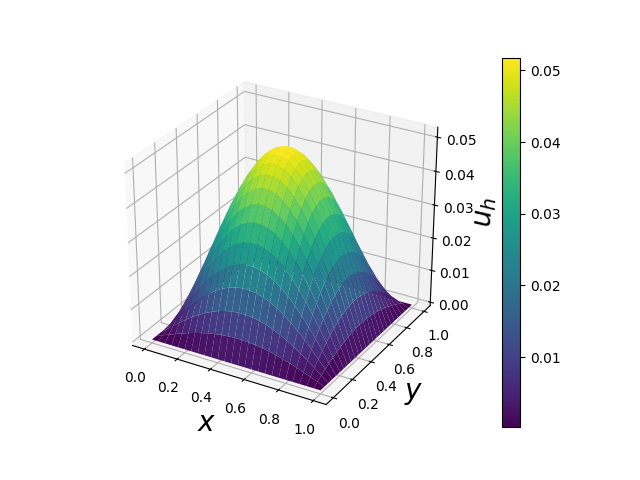
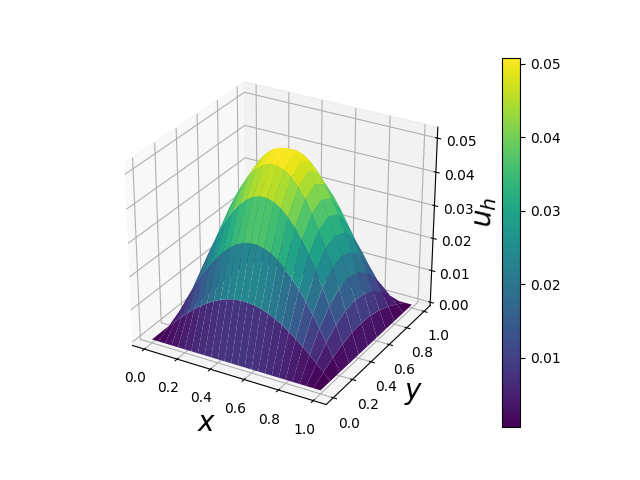
Tidying up
Added 2D cotourf plot with matplitlib.

Made plot_custom slightly cleverer by having a memory on last element index.

Moved assemble(u*dx) to tests, as it is not required in the main file

diff --git a/plotting.py b/plotting.py
@@ -1,16 +1,17 @@
 import matplotlib.pyplot as plt
+import numpy as np
+from mpl_toolkits.mplot3d import axes3d
 
 
 def plot_at_vertex(u_h, V):
     """ Plot the solution projected in 3D at the dof location """
-    from mpl_toolkits.mplot3d import axes3d
     fig = plt.figure()
     axes = fig.add_subplot(1, 1, 1, projection="3d")
     u_plot = u_h.reshape(V.mesh.grid[0].shape)
     mycmap = plt.get_cmap('viridis')
     surface = axes.plot_surface(V.mesh.grid[0],
-                                V.mesh.grid[1], u_plot,cmap=mycmap)
-    fig.colorbar(surface,ax=axes)
+                                V.mesh.grid[1], u_plot, cmap=mycmap)
+    fig.colorbar(surface, ax=axes)
     axes.set_xlabel('$x$', fontsize=20)
     axes.set_ylabel('$y$', fontsize=20)
     axes.set_zlabel('$u_h$', fontsize=20)
@@ -21,17 +22,16 @@ def plot_custom(u_h, V, Nx):
     """
     Plot solution on a custom grid with Nx^2 elements
     """
-    import numpy as np
     from mesh import UnitSquareMesh
     plot_mesh = UnitSquareMesh(Nx, Nx)
-    func  = np.zeros(len(plot_mesh.vertices))
+    func = np.zeros(len(plot_mesh.vertices))
     # Loop over all nodes in custom mesh
     counter = 0
+    index = 0
     for y_ in np.linspace(0, 1, Nx+1):
         for x_ in np.linspace(0, 1, Nx+1):
             # Find which element the point belongs to
-            index = element(x_, y_, V)
-            local_cells = V.mesh.cells[index]
+            index = element(x_, y_, V, last_element=index)
             # Find min/max values of element coordinates
             a, b = V.mesh.vertices[V.mesh.cells[index][0]]
             c, d = V.mesh.vertices[V.mesh.cells[index][2]]
@@ -45,24 +45,62 @@ def plot_custom(u_h, V, Nx):
     Z = func.reshape(plot_mesh.grid[0].shape)
 
     fig = plt.figure()
-    axes = fig.add_subplot(1,1,1, projection="3d")
+    axes = fig.add_subplot(1, 1, 1, projection="3d")
     mycmap = plt.get_cmap('viridis')
     surface = axes.plot_surface(plot_mesh.grid[0],
                                 plot_mesh.grid[1], Z, cmap=mycmap)
-    fig.colorbar(surface,ax=axes)
+    fig.colorbar(surface, ax=axes)
     axes.set_xlabel('$x$', fontsize=20)
     axes.set_ylabel('$y$', fontsize=20)
     axes.set_zlabel('$u_h$', fontsize=20)
-    plt.savefig("u_plot.png")
+    plt.savefig("u_h_custom.png")
 
 
-def element(x_, y_, V):
+def element(x_, y_, V, last_element=0):
     """
-    Find which element contains x_, y_
+    Find which element contains x_, y_.
+    Optional argument is the index of last element for potential speedup
     """
     vert = V.mesh.vertices
-    for i in range(len(V.mesh.cells)):
+    # Saves alot of time if visualization grid is finer than mesh
+    for i in range(last_element, len(V.mesh.cells)):
         cell = V.mesh.cells[i]
-        if  (vert[cell[0]][0] <= x_ and x_ <= vert[cell[1]][0] and
-             vert[cell[0]][1] <= y_ and y_ <= vert[cell[-1]][1]):
+        x_cond = vert[cell[0]][0] <= x_ and x_ <= vert[cell[1]][0]
+        y_cond = vert[cell[0]][1] <= y_ and y_ <= vert[cell[-1]][1]
+        if x_cond and y_cond:
             return i
+
+    # If value not found in higher index, start from 0
+    for i in range(0, last_element):
+        cell = V.mesh.cells[i]
+        x_cond = vert[cell[0]][0] <= x_ and x_ <= vert[cell[1]][0]
+        y_cond = vert[cell[0]][1] <= y_ and y_ <= vert[cell[-1]][1]
+        if x_cond and y_cond:
+            return i
+
+
+def plot_contour(u_h, V, mesh=False):
+    """
+    2D contour plot of solution u_h.
+    Optionally overlay the mesh
+    """
+
+    u_plot = u_h.reshape(V.mesh.grid[0].shape)
+    plt.figure()
+    plt.contourf(V.mesh.grid[0], V.mesh.grid[1], u_plot)
+    if mesh:
+        vertices = V.mesh.vertices
+        cells = V.mesh.cells
+        for i in range(len(cells)):
+            plt.plot(np.append(vertices[cells[i], 0],
+                               np.array(vertices[cells[i], 0][0])),
+                     np.append(vertices[cells[i], 1],
+                               np.array(vertices[cells[i], 1][0])),
+                     "k-", alpha=0.2, linewidth=0.5)
+
+    cbar = plt.colorbar()
+    cbar.set_label("$u_h$", fontsize=20)
+    plt.axis("equal")
+    plt.xlabel("x")
+    plt.ylabel("y")
+    plt.savefig("u_h_contour.png")

diff --git a/problem.py b/problem.py
@@ -1,16 +1,14 @@
-def main(nx, ny, f):
+def main(nx, ny, f, quad_degree=4):
     from mesh import UnitSquareMesh
     from functionspace import FunctionSpace
-    from assembly import (assemble_stiffness_matrix, assemble_rhs,
-                          assemble_volume_function)
-    import sympy as sp
-    import numpy as np
+    from assembly import (assemble_stiffness_matrix, assemble_rhs)
+
     mesh = UnitSquareMesh(nx, ny)
     V = FunctionSpace(mesh)
 
-    A = assemble_stiffness_matrix(V)
+    A = assemble_stiffness_matrix(V, quad_degree=quad_degree)
 
-    L = assemble_rhs(V, f)
+    L = assemble_rhs(V, f, quad_degree=quad_degree)
 
     def bc_apply(A, b):
         # Apply a zero-dirichlet condition
@@ -22,10 +20,10 @@ def main(nx, ny, f):
         return A
 
     bc_apply(A, L)
+    from numpy.linalg import solve
+    u_h = solve(A, L)
 
-    u_h = np.linalg.solve(A, L)
-
-    return (u_h,V), float(assemble_volume_function(u_h, V))
+    return u_h, V
 
 
 if __name__ == "__main__":
@@ -33,11 +31,12 @@ if __name__ == "__main__":
     # f = "8*pi**2*sin(2*pi*x)*sin(2*pi*y)"
 
     def f_internal(x, y):
-        from sympy import pi, sin,cos
+        from sympy import pi, sin, cos
         return eval(f)
-    
-    # (u_h, V), intu = main(100,50, f_internal)
-    (u_h, V), intu = main(5,8, f_internal)
-    from plotting import plot_at_vertex, plot_custom
+
+    u_h, V = main(25, 10, f_internal, quad_degree=2)
+
+    from plotting import plot_at_vertex, plot_custom, plot_contour
     plot_at_vertex(u_h, V)
-    plot_custom(u_h, V,15)
+    plot_custom(u_h, V, 40)
+    plot_contour(u_h, V, mesh=True)

diff --git a/test_solution.py b/test_solution.py
@@ -1,5 +1,7 @@
 from problem import main
 from dolfin_reference import dolfin_comparasion
+from assembly import assemble_volume_function
+
 import pytest
 import numpy as np
 
@@ -12,7 +14,8 @@ def test(Nx, Ny, f):
     def f_internal(x, y):
         from sympy import pi, sin, cos
         return eval(f)
-    u_h, u_int = main(Nx, Ny, f_internal)
-    u_hd, u_dolfin = dolfin_comparasion(Nx, Ny,f)
-    print(u_int, u_dolfin)
-    assert(np.isclose(u_int, u_dolfin, rtol=1e-8))
+    u_h, V = main(Nx, Ny, f_internal)
+    integral_u = assemble_volume_function(u_h, V, quad_degree=4)
+    u_hd, u_dolfin = dolfin_comparasion(Nx, Ny, f)
+    print(integral_u, u_dolfin)
+    assert(np.isclose(float(integral_u), u_dolfin, rtol=1e-8))
